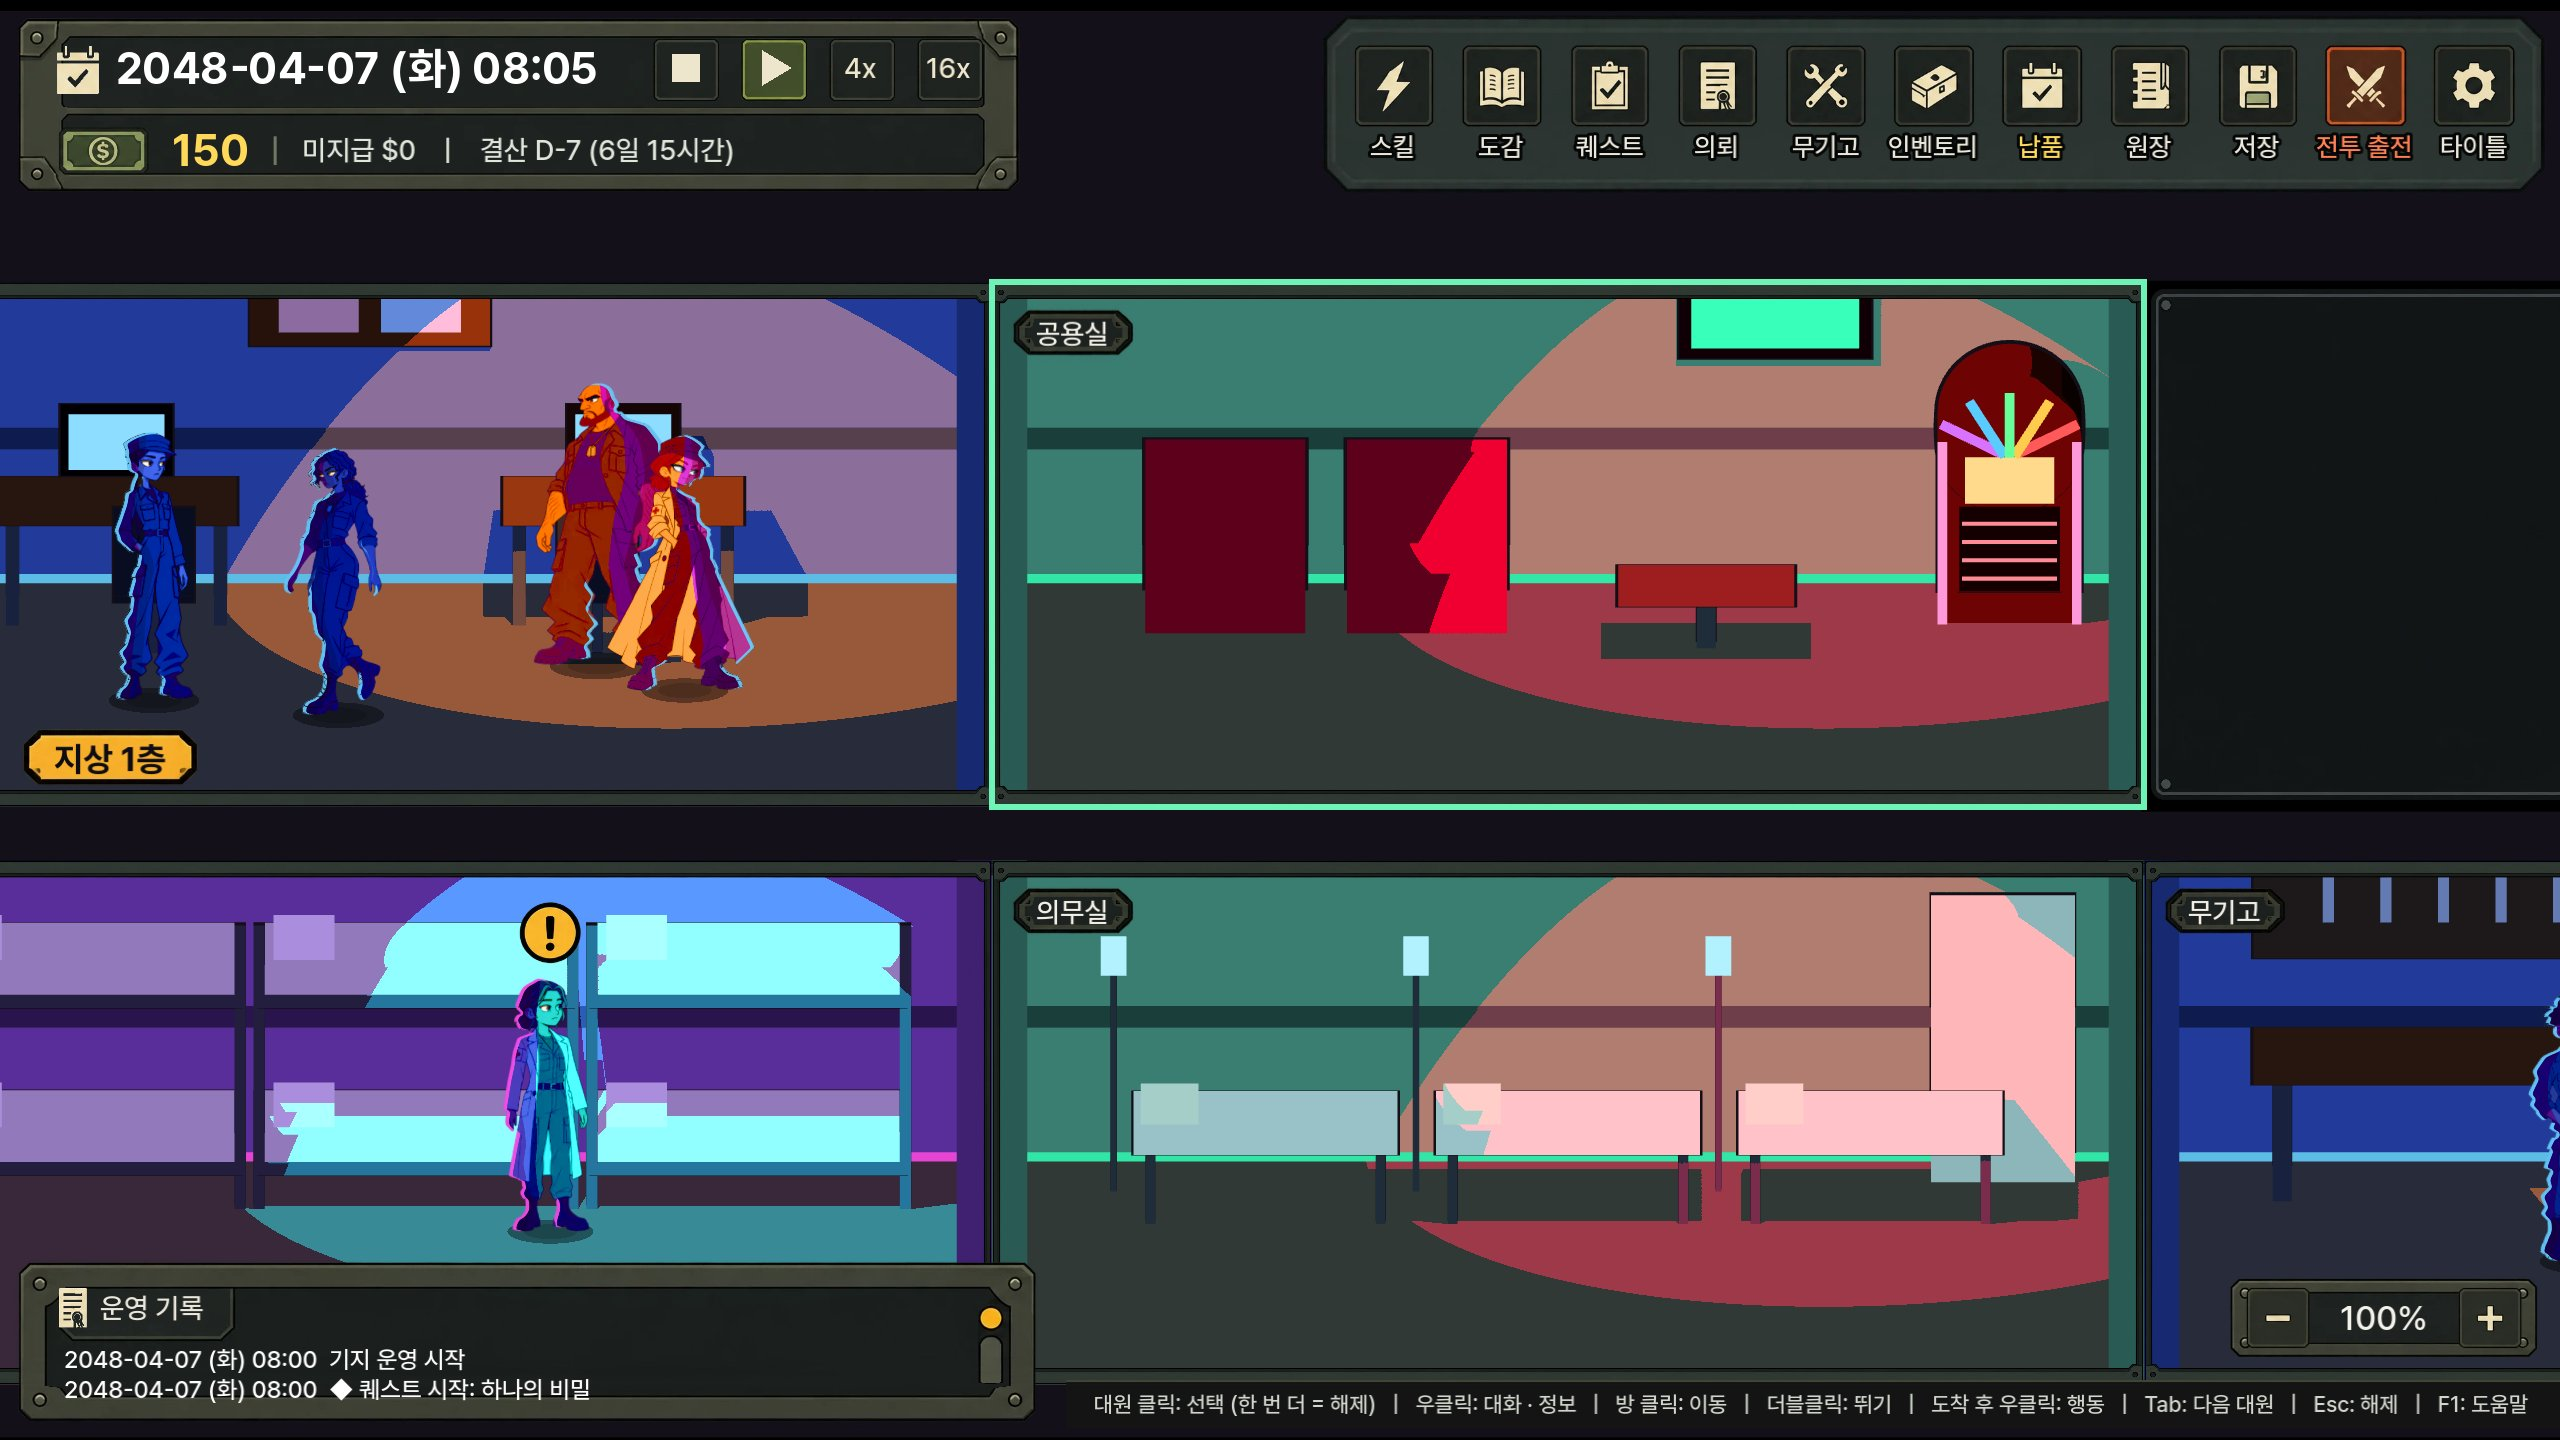
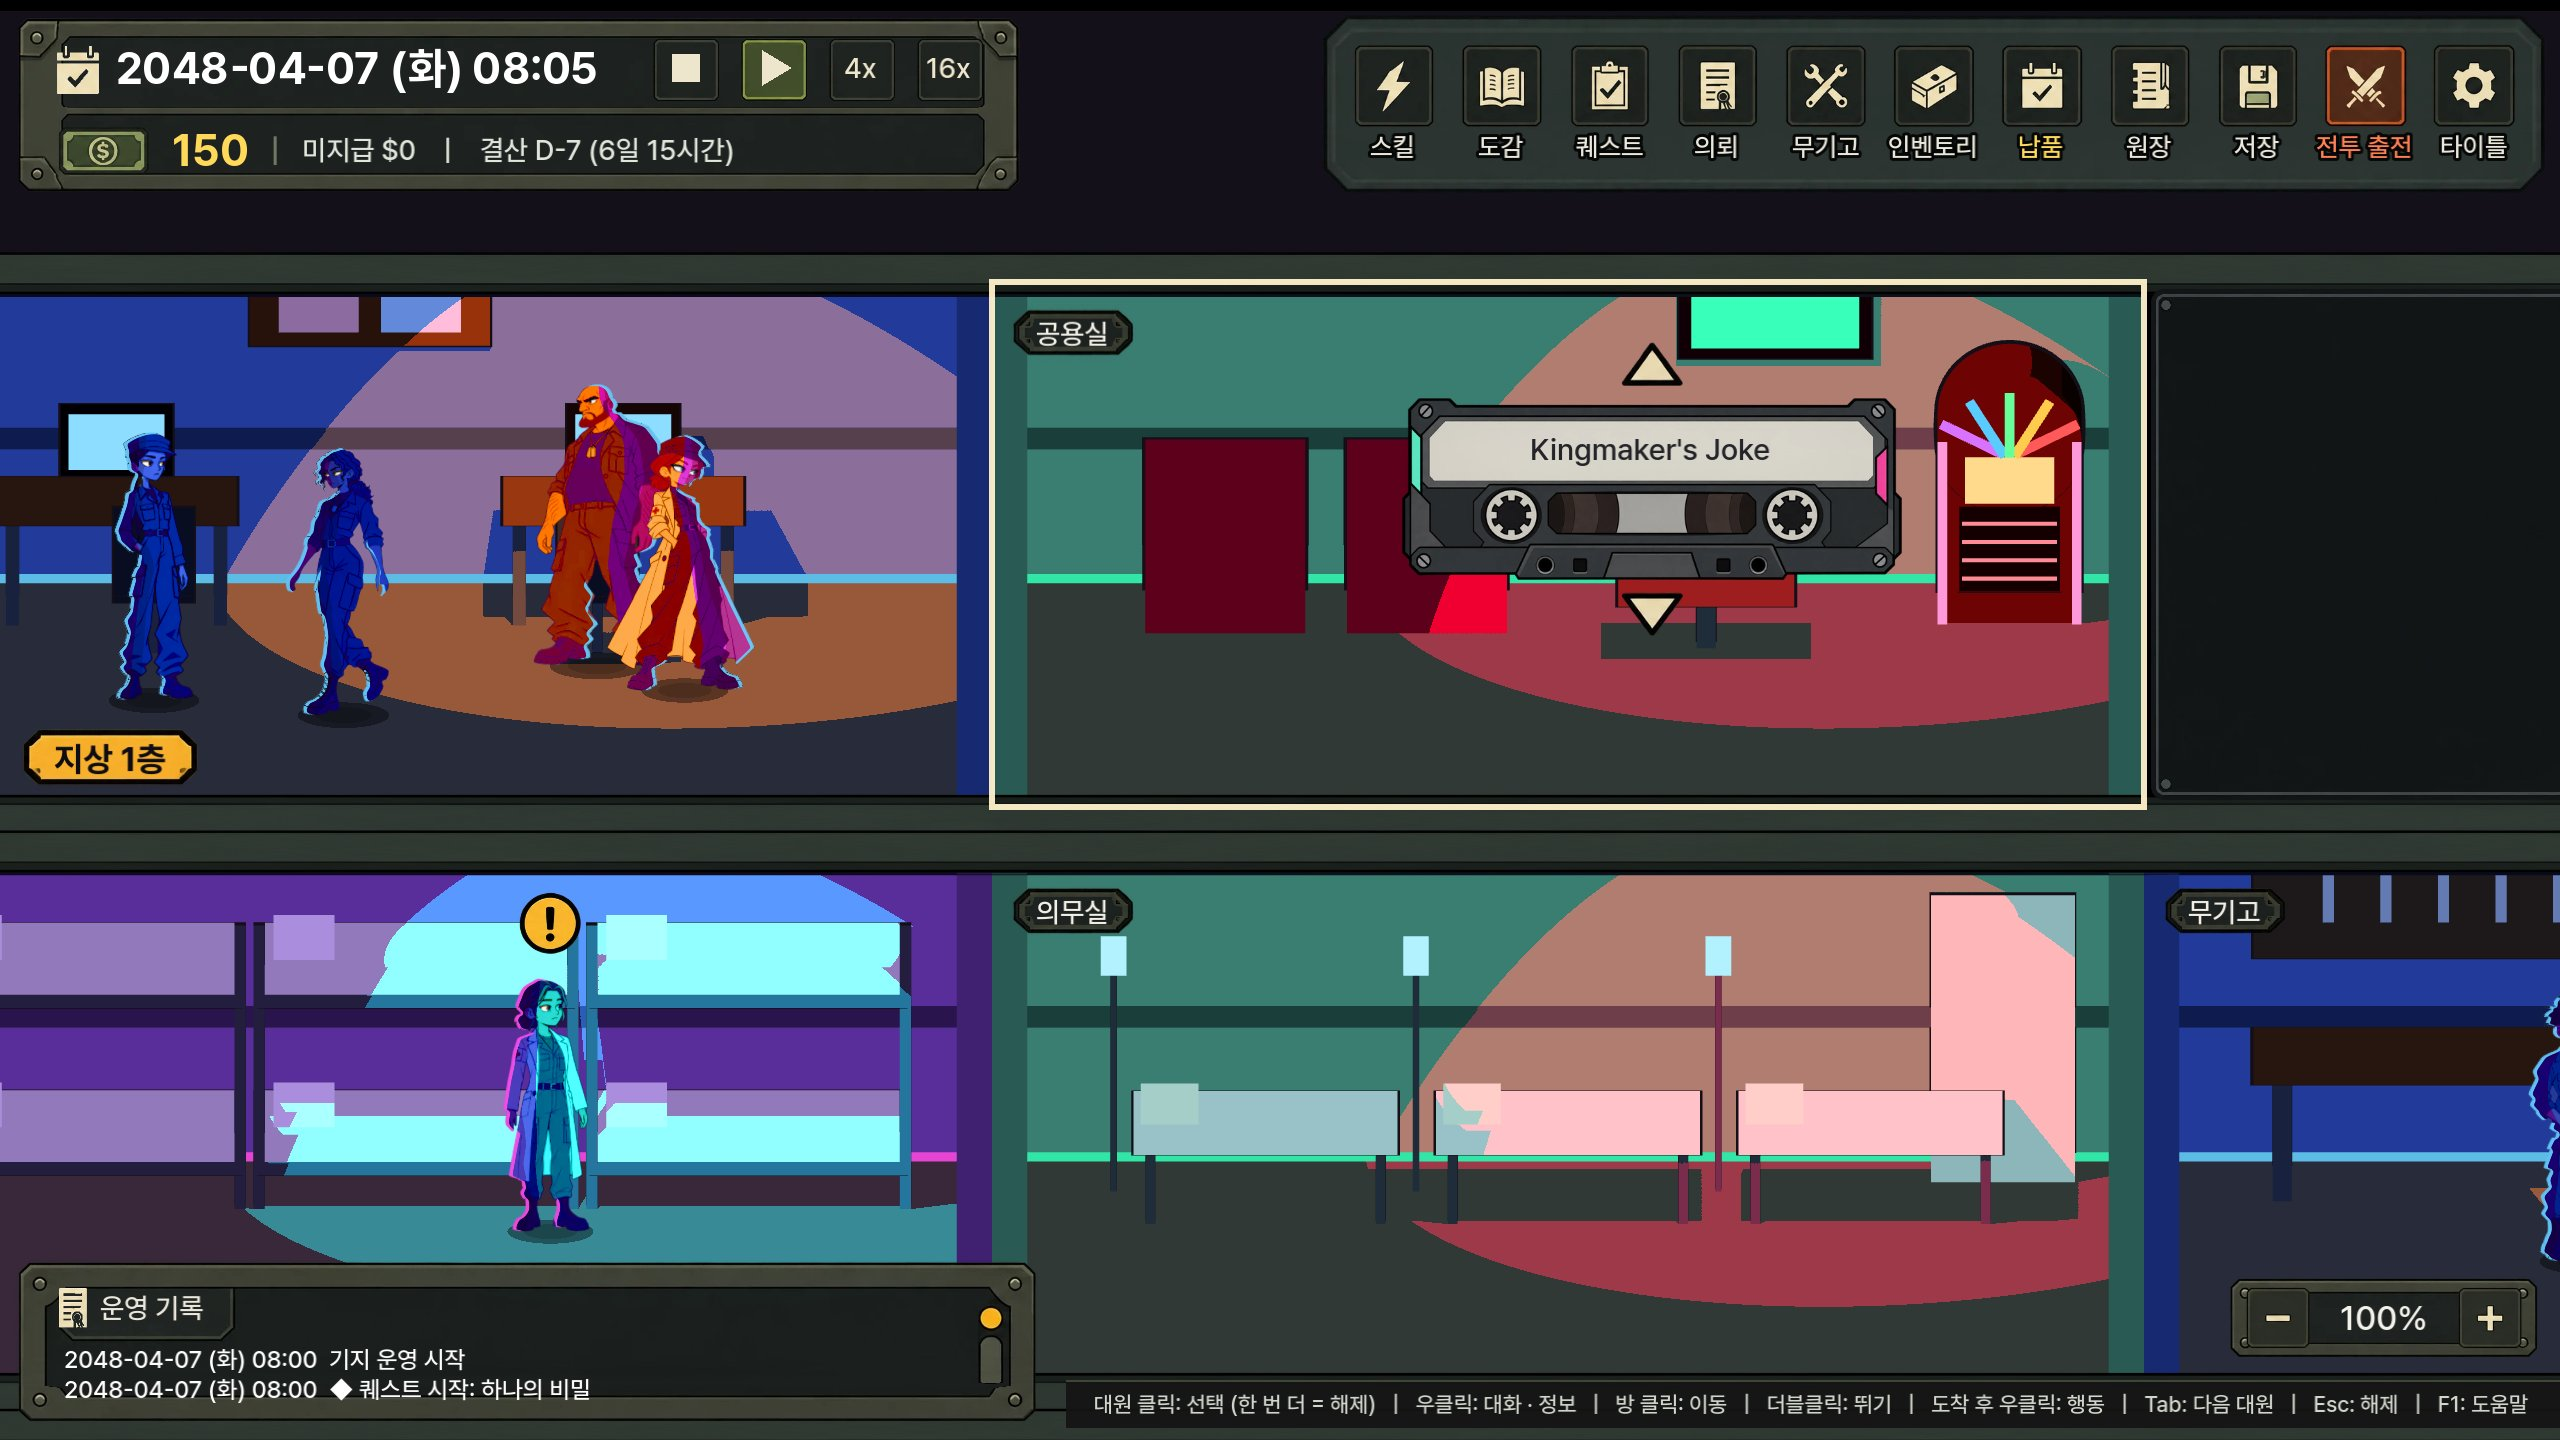
Match the final mock-up: frame each floor, cream hover outline
The ui-room frame now wraps each floor's whole row of rooms (bolted bands
over the slabs between floors) instead of every room, and the hovered
room is outlined in cream, as in the final reference.

Claude-Session: https://claude.ai/code/session_014aytw3hj7boqn3SZ5GP5ti

diff --git a/docs/design/PROTOTYPE_GDD_v1_0.md b/docs/design/PROTOTYPE_GDD_v1_0.md
@@ -4,7 +4,7 @@
 
 ## 0. 현재 구현 반영 (변경될 때마다 갱신)
 > 아래는 원 기획 이후 사용자 결정으로 바뀐 내용. 상세 결정 이력은 `00_decision_log_v1_0.md`, 아트 규격은 `../ui_art_spec.md`.
-> 마지막 갱신: 2026-10-31 (상단 오른쪽 아이콘 줄 뒤 패널)
+> 마지막 갱신: 2026-10-31 (최종 시안: ui-room 테두리는 층마다 · 마우스를 올린 방 = 크림색)
 
 - **표현**: 캐릭터 2D **스프라이트 프레임 애니메이션**(**스프라이트 시트** `assets/characters/<id>/<동작>_<칸 수>.png`, 사용자가 제작 — 시트 없는 동작은 기본 그림 한 장. 현재: 하나·니키타·키라·단·이선·앨마 idle(기본 그림 숨쉬기) — 니키타(빨간 머리 의무병 코트)·키라(회색 군복, 최종)·하나(곱슬머리 군복·오른쪽 눈 아래 점, 최종)·앨마(흰 의무 가운)는 새 그림으로 교체되어 예전 걷기·피격·공격 시트는 지움) + 배경 3D(실광원·그림자). Skeleton2D 리그·3D 캐릭터 전환은 제거.
   칠 방식: **전 캐릭터 네온 칠**(선화는 원화 그대로, 면은 원화 밝기대로 조명색으로 덮음 — 어두운 면은 깊은 보라, 밝은 면은 조명색). `character.json` `"style": "classic"` 이면 예전 셀 칠, `"neon_gradient"` 0~1 = 몸 위→아래 색상 그라데이션(기본 끔).
@@ -29,7 +29,7 @@
 - **인간 적군 AU군 거한** (bigman): 근접 거한(키 205cm, HP 120, 방어 3, AI aggressive) [임시]. 모션 9종 + idle · 지침 리깅. 쓰러진 그림(dead)은 이제 몸이 발밑 그림자 위에 놓이게 (몸 두께 30% 아래로).
 - **전투 겹침 정리**: 체력 · AP 칸과 상태 배지는 그 유닛 바로 위 층 (앞줄 캐릭터에 가려짐), 쓰러진 캐릭터는 안 보임. 쓰러진 캐릭터는 살아 있는 캐릭터 뒤 층, 조금 뒤로 물러나 눕고 가운데 열은 몸 두께만큼 더 뒤로 → 쓰러진 몸끼리 안 겹침. 누운 몸 길이는 선 키와 같게 (긴 그림은 작게 그림 — 단 · 하나는 원래 크기 유지).
 - **기지 조작**: 대원 클릭 = 선택, **선택한 대원을 한 번 더 클릭 = 선택 해제** (대화는 우클릭 메뉴). 선택해도 오른쪽 아래 카드는 안 뜸 — **우클릭 → '정보 보기'** 를 누르면 화면 가운데 창 (모든 대원; 전투 대원은 장비 · 스킬 트리 포함). 기지 로그창은 오른쪽 위 모서리 아이콘(UI 패키지 schedule)으로 접기 · 펴기.
-- **기지 UI v2** (사용자 제공 UI 패키지 + 레퍼런스 화면, 원본 art_src/ui/ui_package_v2.webp · ref_outgame_v2.webp): 왼쪽 위 = 두 줄 패널(달력 · 날짜 · 속도 버튼 ■ ▶ 4x 16x — 지금 속도는 초록 / 지폐 · 잔액 | 미지급 | 결산 D-day), 오른쪽 위 = 새 아이콘 타일 11개(전투 출전만 주황) — 뒤에 팔각 어두운 띠 패널(사용자 제공, 날짜 패널과 같은 높이), 층 표시 = 지금 보는 층 금색 태그 · 나머지 어두운 태그, 방 이름 = 어두운 태그, 운영 기록 = 머리 탭 · 스크롤 막대 · 주황 점 패널(2줄, 머리 탭 · 주황 점 = 접기, 접으면 "운영 기록 ▸" 탭), 오른쪽 아래 = − 100% + 패널, 맨 아래 = 조작 안내 띠(| 구분), 머리 위 ! = 노란 동그라미, 카세트 ▲▼ 삼각형. **잠긴 방** = 볼트 달린 검은 패널(사용자 제공, 볼트는 작은 점 크기) 위에 자물쇠 · 해금 비용. **열린 방** = ui-room 테두리(위 띠 두꺼운 어두운 테두리 · 네 귀 볼트), 마우스를 올린 방 = 민트 테두리. 방 이름표 · 조작 안내 · 기록 줄은 틀 밖으로 안 나감(줄이거나 자름).
+- **기지 UI v2** (사용자 제공 UI 패키지 + 레퍼런스 화면, 원본 art_src/ui/ui_package_v2.webp · ref_outgame_v2.webp): 왼쪽 위 = 두 줄 패널(달력 · 날짜 · 속도 버튼 ■ ▶ 4x 16x — 지금 속도는 초록 / 지폐 · 잔액 | 미지급 | 결산 D-day), 오른쪽 위 = 새 아이콘 타일 11개(전투 출전만 주황) — 뒤에 팔각 어두운 띠 패널(사용자 제공, 날짜 패널과 같은 높이), 층 표시 = 지금 보는 층 금색 태그 · 나머지 어두운 태그, 방 이름 = 어두운 태그, 운영 기록 = 머리 탭 · 스크롤 막대 · 주황 점 패널(2줄, 머리 탭 · 주황 점 = 접기, 접으면 "운영 기록 ▸" 탭), 오른쪽 아래 = − 100% + 패널, 맨 아래 = 조작 안내 띠(| 구분), 머리 위 ! = 노란 동그라미, 카세트 ▲▼ 삼각형. **잠긴 방** = 볼트 달린 검은 패널(사용자 제공, 볼트는 작은 점 크기) 위에 자물쇠 · 해금 비용. **층 테두리** = ui-room (층마다 그 층 방 전체를 감쌈 — 위 · 아래 볼트 띠가 층 사이), 마우스를 올린 방 = 크림색 테두리 (최종 시안 = art_src/ui/ref_outgame_v2.webp). 방 이름표 · 조작 안내 · 기록 줄은 틀 밖으로 안 나감(줄이거나 자름).
 - **기지 클릭 판정**: 대원은 **몸 그림의 불투명 픽셀** 어디를 눌러도 선택 (예전 사각형은 상반신을 놓침, 빈 곳은 안 잡힘). 머리 위 **'!' 를 누르면 요청 대화**(수락). **방 빈 곳 우클릭** = 그 방 메뉴 → '정보 보기' = 도감 '기지 시설' 탭의 그 방 (선택한 대원이 그 방에 있으면 대원 행동도 같은 메뉴에).
 - **날짜 속도 버튼** (사용자 제공 그림): 정지 = ■ 버튼, 1배 = ▶ 버튼, 4배 · 16배 = 빈 버튼 + 글자. 지금 속도는 금빛, 나머지는 살짝 어둡게.
 - **배경음악 · 주크박스**: 배경음악 5곡 (`assets/audio/bgm/`, 목록 · 제목 · 음량 `data/bgm.json`), 기지에 들어오면 재생 · 장면이 바뀌어도 이어짐 · 곡이 끝나면 다음 곡. **공용실 오른쪽 주크박스**(대원을 선택하지 않은 상태에서 주크박스 어디든 — 마우스를 올리면 금색 테두리 + '클릭: 음악')를 누르면 **주크박스 바로 왼쪽에 음악 카세트 창**(카메라를 움직여도 따라감)(사용자 제공 그림) — 빈 칸에 지금 곡 제목, 위 ▲ = 이전 곡, 아래 ▼ = 다음 곡. 주크박스를 다시 누르면 닫힘.

diff --git a/docs/design/00_decision_log_v1_0.md b/docs/design/00_decision_log_v1_0.md
@@ -578,6 +578,10 @@
 
 - **2026-10-31 아이콘 줄 패널** (사용자 제공 팔각 띠, 원본 art_src/ui/icon_bar_panel.webp → assets/ui/outgame/v2/panel_iconbar.png): 상단 오른쪽 아이콘 11개 뒤에 깔고 높이를 왼쪽 날짜 패널(92)과 맞춤, 아이콘은 가운데 정렬. 9칸 늘리기(팔각 모서리 고정).
 
+- **2026-10-31 최종 시안 맞춤** (사용자: 최종 레퍼런스 = 앞서 받은 기지 UI 시안, art_src/ui/ref_outgame_v2.webp)
+  - ui-room 테두리는 방마다가 아니라 **층마다** (그 층 방 전체를 감싸 위 · 아래 볼트 띠가 층 사이 슬래브 위, 배율 0.28). 방마다 그리던 테두리는 뺌.
+  - 마우스를 올린 방 테두리: 민트 → 크림색 (시안).
+
 ## 검증 중 (확정 아님)
 - **배경 3D + 캐릭터 2D 하이브리드** (2026-10-25 적용): 배경은 3D 방을 2D 카메라와 같은 투영으로 렌더, 캐릭터 라이팅은 실제 광원 위치 기준
   (빛 쪽 얼굴·몸을 광원색으로 밝힘 + 빛이 뒤에서 오면 같은 쪽 가장자리 림 + 바닥 그림자). 캐릭터 2D(리그)는 확정 사항 유지. (이전 2D 배경 판은 2026-10-27 제거.)

diff --git a/README.md b/README.md
@@ -346,7 +346,7 @@ git 이 없는 설치(zip)는 같은 설치 명령을 다시 실행하면 최신
 - **기지 UI v2** (사용자 제공 UI 패키지 `art_src/ui/ui_package_v2.webp` + 레퍼런스 `art_src/ui/ref_outgame_v2.webp` → 조각 `assets/ui/outgame/v2/`): 두 줄 날짜 패널 · 새 아이콘 타일(뒤에 팔각 띠 패널) · 금색/어두운 층 · 방 태그 · 운영 기록 패널(머리 탭 · 주황 점 = 접기) · − 100% + · 조작 안내 띠 · ! 동그라미.
 
 ![기지 UI v2](docs/screenshots/outgame_ui_v2.jpg)
-- **잠긴 방** = 볼트 달린 검은 패널(사용자 제공, `assets/ui/outgame/v2/panel_locked.png`, 볼트 작은 점) + 자물쇠 · 해금 비용, **열린 방** = ui-room 테두리(`room_frame.png`). 확인 `--base_ui=zoom_out`.
+- **잠긴 방** = 볼트 달린 검은 패널(사용자 제공, `assets/ui/outgame/v2/panel_locked.png`, 볼트 작은 점) + 자물쇠 · 해금 비용, 층마다 ui-room 테두리(`room_frame.png`, 위 · 아래 볼트 띠). 최종 시안 = `art_src/ui/ref_outgame_v2.webp`. 확인 `--base_ui=zoom_out`.
 
 ![잠긴 방 패널](docs/screenshots/outgame_locked_rooms.jpg)
 
